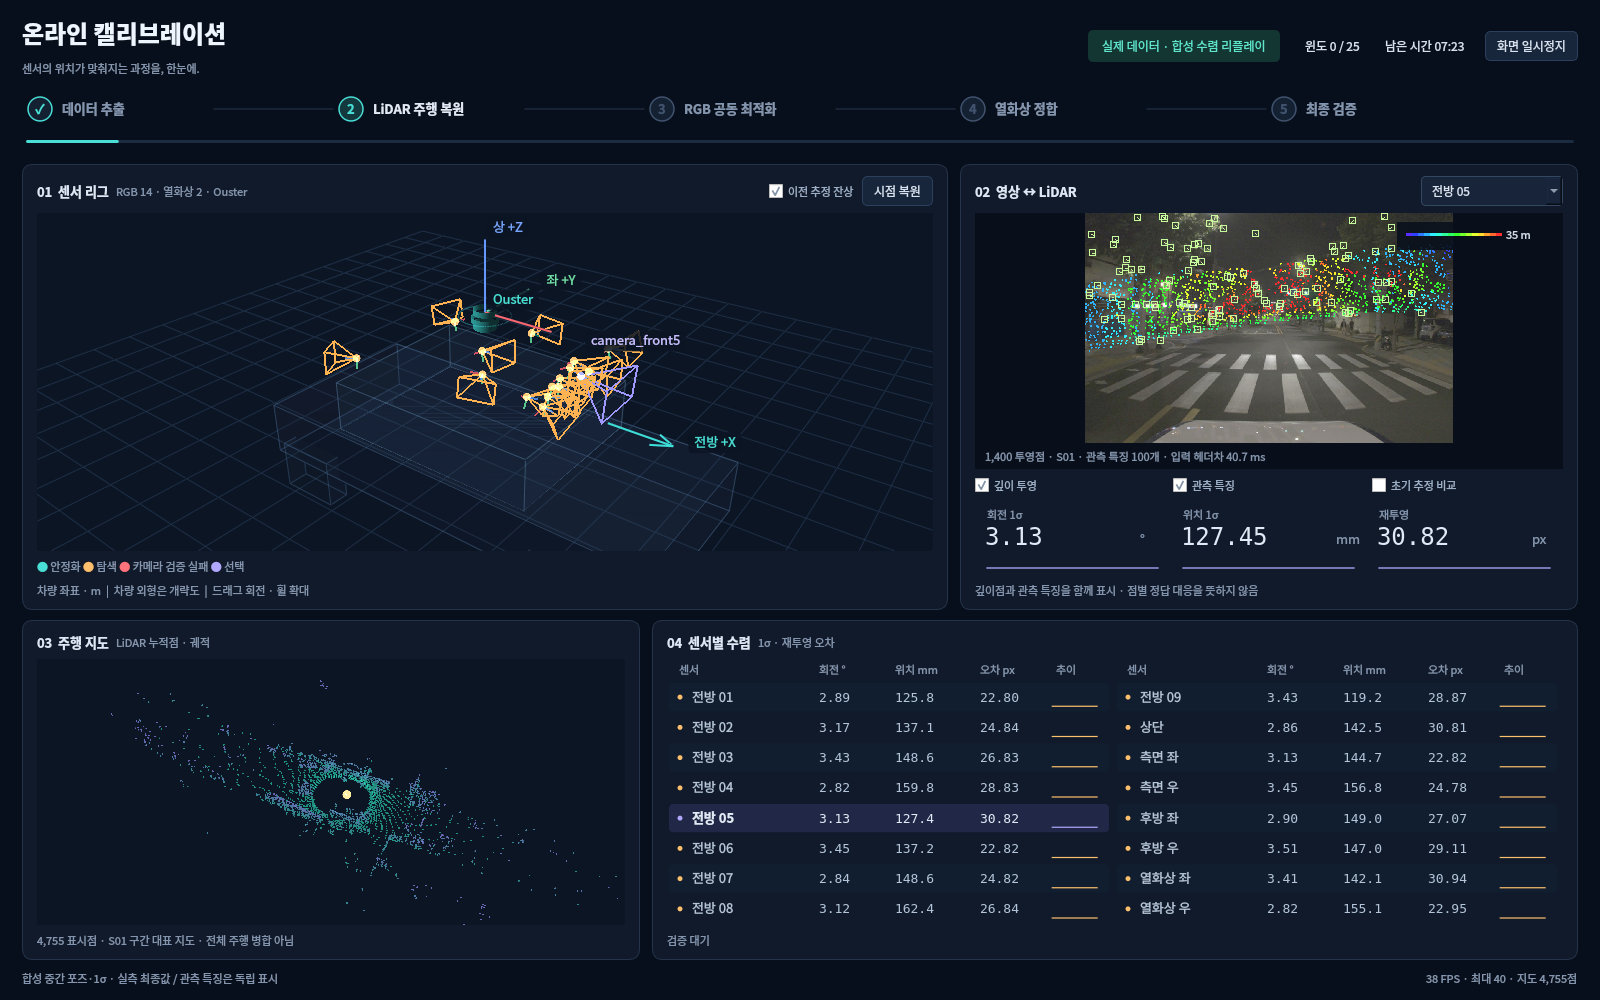
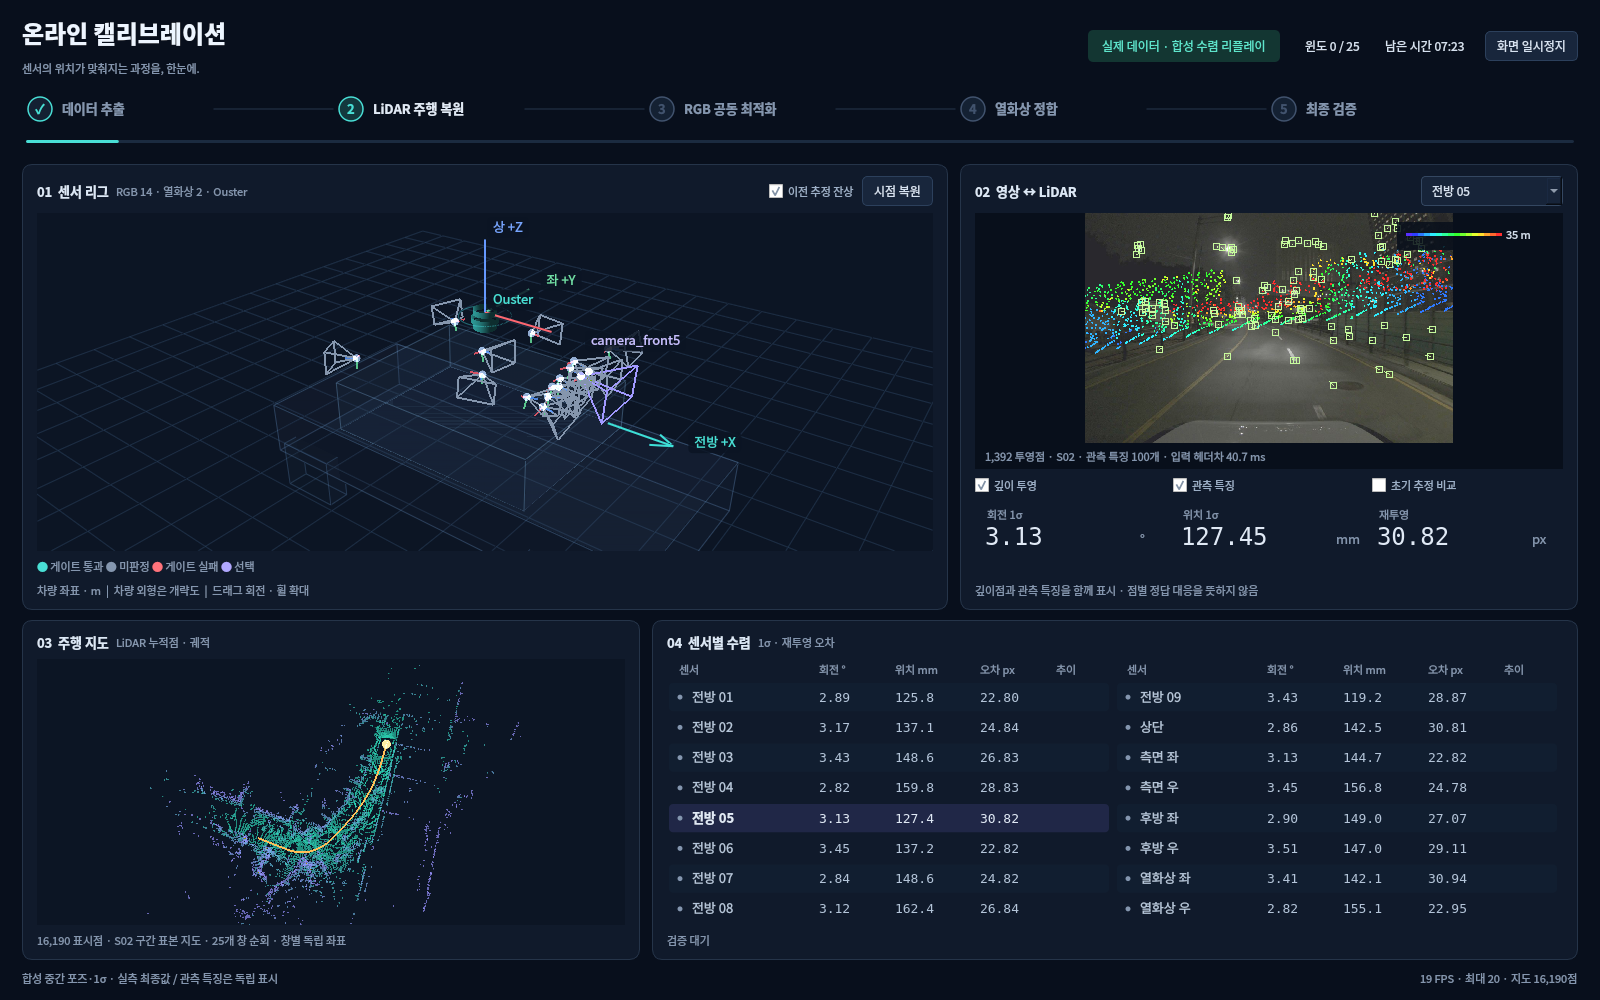
실작업 표시와 합성 데모의 검증 범위를 재현할 수 있게 남긴다
초기·최종값 대체 표시와 실제 스트림 연결, 카메라 게이트 의미, 전체 구간 리플레이의 자원 한도를 문서화한다.
임베드 탭과 RGB·열화상 화면을 다시 캡처하고 자동 검사·실제 조작·메모리 측정 증거를 함께 보관한다.

Tested: Python 테스트 100개, Pyflakes·문법·공백 검사, 소프트웨어 OpenGL 시각 검토
Not-tested: 실제 solver 동시 실행 처리량과 실차 GPU 성능
Confidence: high
Scope-risk: narrow

diff --git a/docs/calib_viz_validation.md b/docs/calib_viz_validation.md
@@ -1,38 +1,87 @@
-# 3D 보정 뷰어 검증 기록
+# 온라인 보정 탭·3D 뷰어 검증 기록
 
-검증일: 2026-09-26. Python3.10 / PyQt5 / PyQtGraph0.13.7 / PyOpenGL3.1.7.
-실제 입력: `/hdd/DM_calib/nt_regress/full/{work,out}` (읽기 전용).
+검증일: 2026-09-26. 입력 `/hdd/DM_calib/nt_regress/full/{work,out}`는 읽기 전용으로 사용했다.
+전체 clip GUI, 센서, 레코더, 실제 보정 solver는 실행하지 않았다.
 
-- `python3 -m pytest -q tests/test_calib_viz_core.py tests/test_calib_viz_viewer.py`: **26 passed**.
-- `python3 -m pyflakes scripts/calib_viz scripts/calib_viz_demo.py tests/test_calib_viz_core.py tests/test_calib_viz_viewer.py`: 통과.
-- `python3 -m compileall -q scripts/calib_viz scripts/calib_viz_demo.py`, `git diff --check`: 통과.
-- 별도 정적 타입 검사 설정은 없는 Python 모듈이다. 타입 검사 도구를 실행했다고 주장하지 않는다.
+## 자동 검사
 
-실측 최종16대의 앞/좌/상 축 부호, rig.yaml 위치 일치, KB4/OpenCV 투영 동치,
-열화상 plumb_bob 투영, 최종 지표·판정 원본 일치를 검증했다.
-부분 JSON, 중복 seq, 파일 교체/재기록, 큰 로그의 최신 부분 읽기, 잘못된 필드·NPZ·경로,
-누락 영상의 마지막 정상 프레임 유지, 재시작 시 지도 교체, 종료 시 timer/thread 해제를 검사했다.
+```bash
+QT_QPA_PLATFORM=offscreen OMP_NUM_THREADS=1 OPENBLAS_NUM_THREADS=1 PYTHONDONTWRITEBYTECODE=1 \
+  python3 -m pytest -q test tests
+python3 -m pyflakes scripts/calib_viz scripts/calib_viz_demo.py scripts/calib_tab_demo.py \
+  scripts/calib_tab.py scripts/online_calib.py test/test_calib_viz_*.py \
+  test/test_calib_tab_gui.py tests/test_calib_viz_*.py
+python3 -m compileall -q scripts/calib_viz scripts/calib_tab.py scripts/online_calib.py \
+  scripts/clip_gui.py scripts/calib_viz_demo.py scripts/calib_tab_demo.py
+git diff --check
+```
 
-Xvfb/GLX 1600×1000 렌더링:
+**100 passed** (10.91초). 변경 전 기존 테스트는 52 passed였다.
+Pyflakes, Python 문법 검사, diff 공백 검사 통과. 별도 정적 타입 검사 설정은 없다.
+`clip_gui.py` 전체 Pyflakes에는 기존 미사용 import `QPixmap`, `QScrollArea` 2건이 있으며,
+이번 변경은 종료 시 `self.calib.shutdown()` 한 줄이다. ROS/C++ 전체 빌드는 수행하지 않았다.
 
-| 화면 | 파일 | 표시 점 개수 | 측정 FPS |
-|---|---|---:|---:|
-| 초기 추정 | [calib_viz_01_006.png](img/calib_viz_01_006.png) | 4,755 | 38.3 |
-| RGB 수렴 중 | [calib_viz_02_055.png](img/calib_viz_02_055.png) | 56,801 | 40.0 |
-| 최종 검증 | [calib_viz_03_100.png](img/calib_viz_03_100.png) | 56,801 | 40.0 |
-| 열화상 선택 | [calib_viz_thermal.png](img/calib_viz_thermal.png) | 56,801 | 별도 캡처 |
+주요 회귀 범위:
 
-[측정 JSON](img/calib_viz_capture.json)은 실제 GL frameSwapped 기준이다.
-`LIBGL_ALWAYS_SOFTWARE=1`의 렌더러는 **llvmpipe (LLVM15.0.7,256bits)**였다.
-3화면 캡처의 `/usr/bin/time -v` 측정: 17.83초, 최대 RSS338,648KiB(약331MiB),
-평균 CPU122%(약1.22코어), swap0. 이는 짧은 대표 캡처이며 장시간/실차 성능 시험은 아니다.
+- 실제 설계/warm-start와 최종 YAML 그대로 표시, 중간 지표 미생성, 즉시 최종 전환.
+- 설치/사용자 실행 파일의 설정 출처, 설정 불명확 시 미표시, 시작 시 초기값 캐시 갱신.
+- 실제 진행·추출/LO 구간 수·ETA 유지, 카메라×구간 작업 수와 구간 수 구분.
+- 늦게 생긴 스트림 연결, 잘못된 manifest 복구, 실작업의 합성 스트림 거절.
+- 완료 결과가 오래된 중간 포즈보다 우선함, 작업 변경 시 이전 화면·이력 초기화.
+- 실제 야간 결과 16대 gate 통과, RGB 참고 검사 14개, 열화상 실패·미판정·전체 배치 실패 구분.
+- 선택한 영상만 읽기, 새 이벤트 없이 카메라 변경, 누락 자산 복구, worker/timer 종료.
+- 전체 구간 순회, 독립 좌표계 유지, 제한된 점·특징·자산 캐시, 누락 영상 미표시.
 
-[조작 검증 JSON](img/calib_viz_interaction.json): 측면 영상 선택 시1,578개,
-열화상 선택 시574개 투영점을 확인했다. 영상 메뉴·센서 선택 동기화, 초기 추정 비교,
-일시정지/재개·종료를 실제 Qt/OpenGL 창에서 확인했다.
-[시각 검토 기록](img/calib_viz_visual_verdict.json)은 외부 디자인 참조 없이 요구사항과 이전 렌더를 기준으로 한다.
+## 오프스크린 화면
 
-현재 NVIDIA 드라이버 접근 불가로 RTX3080Ti/4060Ti 성능은 미검증이다.
-solver 발행 훅이 아직 없으므로 실제 온라인 solver와의 종단 간 연결도 미검증이다.
-지도는 S01 대표 샘플, 영상은3대, 중간 포즈/불확실도는 합성이다. 열화상 rolling shutter 생략 등
-정확한 범위와 발행 훅 계약은 [스트림 규약](calib_viz_stream.md)을 따른다.
+Xvfb/GLX + llvmpipe, `LP_NUM_THREADS=2`, OMP/BLAS 각 1, 화면 갱신 최대20FPS.
+
+| 화면 | 파일 | 구간 / 표시점 |
+|---|---|---|
+| 실제 완료 결과를 연 온라인 보정 탭 | [calib_tab_embedded.png](img/calib_tab_embedded.png) | 포즈·지표16대 / viz 미발행이므로 지도·영상 대기 |
+| 합성 리플레이 초기 | [calib_viz_01_006.png](img/calib_viz_01_006.png) | S02 / 16,190 |
+| 합성 리플레이 중간 | [calib_viz_02_055.png](img/calib_viz_02_055.png) | W03 / 23,597 |
+| 리플레이 실측 최종값 | [calib_viz_03_100.png](img/calib_viz_03_100.png) | W14 / 27,580 |
+| 열화상 우 선택 | [calib_viz_thermal.png](img/calib_viz_thermal.png) | S01 / 28,401 |
+
+[탭 증거](img/calib_tab_embedded.json): 실제 최종 결과, 16대 통과, 참고 배지14개.
+[리플레이 측정](img/calib_viz_capture.json): 16대 선택 가능, 약19.2–20.0FPS.
+[열화상 측정](img/calib_viz_thermal_capture.json),
+[실제 Qt 조작 검사](img/calib_viz_interaction.json),
+[시각 검토](img/calib_viz_visual_verdict.json).
+실제 조작 검사는 카메라16대 각각의 투영, 메뉴/센서 동기화, 일시정지/재개,
+숨김 시 I/O 중지, 종료 후 worker/timer 해제를 확인했다.
+
+3개 리플레이 캡처의 `/usr/bin/time -v`: 22.75초, 최대 RSS354,688KiB(346.4MiB),
+평균 CPU81%, swap0. 소프트웨어 렌더링을 포함한 짧은 캡처이며 장시간 실차 성능은 미검증이다.
+GL expose/창 크기 변경도 `frameSwapped`를 발생시키므로 표시 FPS는 설정된 timer cap보다
+일시적으로 높을 수 있다.
+
+재생 producer만 실제25개 구간을 순회한 별도 측정:
+27스냅샷, 모든 구간/모든16대 영상, 준비0.088초, 전체110.18초,
+최대 RSS100.3MiB, 잔류 자산3세트/9.2MiB. 초기 디스크 읽기가 포함된 측정이다.
+결과는 도구 출력에서 기록했으며 임시 데이터는 종료 시 삭제했다.
+[측정 기록](img/calib_viz_replay_budget.json).
+
+## 재현
+
+```bash
+# 실작업 결과를 담은 탭만 실행; 임시 JobStore 사용, 센서/레코더 없음
+xvfb-run -a -s '-screen 0 1920x1400x24 +extension GLX' \
+  env QT_QPA_PLATFORM=xcb LIBGL_ALWAYS_SOFTWARE=1 LP_NUM_THREADS=2 \
+  OMP_NUM_THREADS=1 OPENBLAS_NUM_THREADS=1 \
+  python3 scripts/calib_tab_demo.py --workdir /hdd/DM_calib/nt_regress/full/work \
+  --screenshot docs/img/calib_tab_embedded.png
+
+# 리플레이 캡처
+xvfb-run -a -s '-screen 0 1920x1200x24 +extension GLX' \
+  env QT_QPA_PLATFORM=xcb LIBGL_ALWAYS_SOFTWARE=1 LP_NUM_THREADS=2 \
+  OMP_NUM_THREADS=1 OPENBLAS_NUM_THREADS=1 \
+  python3 scripts/calib_viz_demo.py --replay /hdd/DM_calib/nt_regress/full/work \
+  --screenshots docs/img --max-fps 20 --max-points 30000
+```
+
+Qt의 `offscreen` 플랫폼은 GL 컨텍스트를 제공하지 않아 이미지 캡처는 Xvfb로 수행했다.
+실제 solver 동시 실행 시 처리량 변화는 측정하지 않았다. 실제 작업은 원본 점군을 처리하지 않고
+작은 이벤트/출력만 읽으며, 지도·영상은 solver가 viz 스트림을 발행할 때에만 나타난다.
+기존 소스의 중간 포즈/불확실도를 복원했다고 주장하지 않는다.
